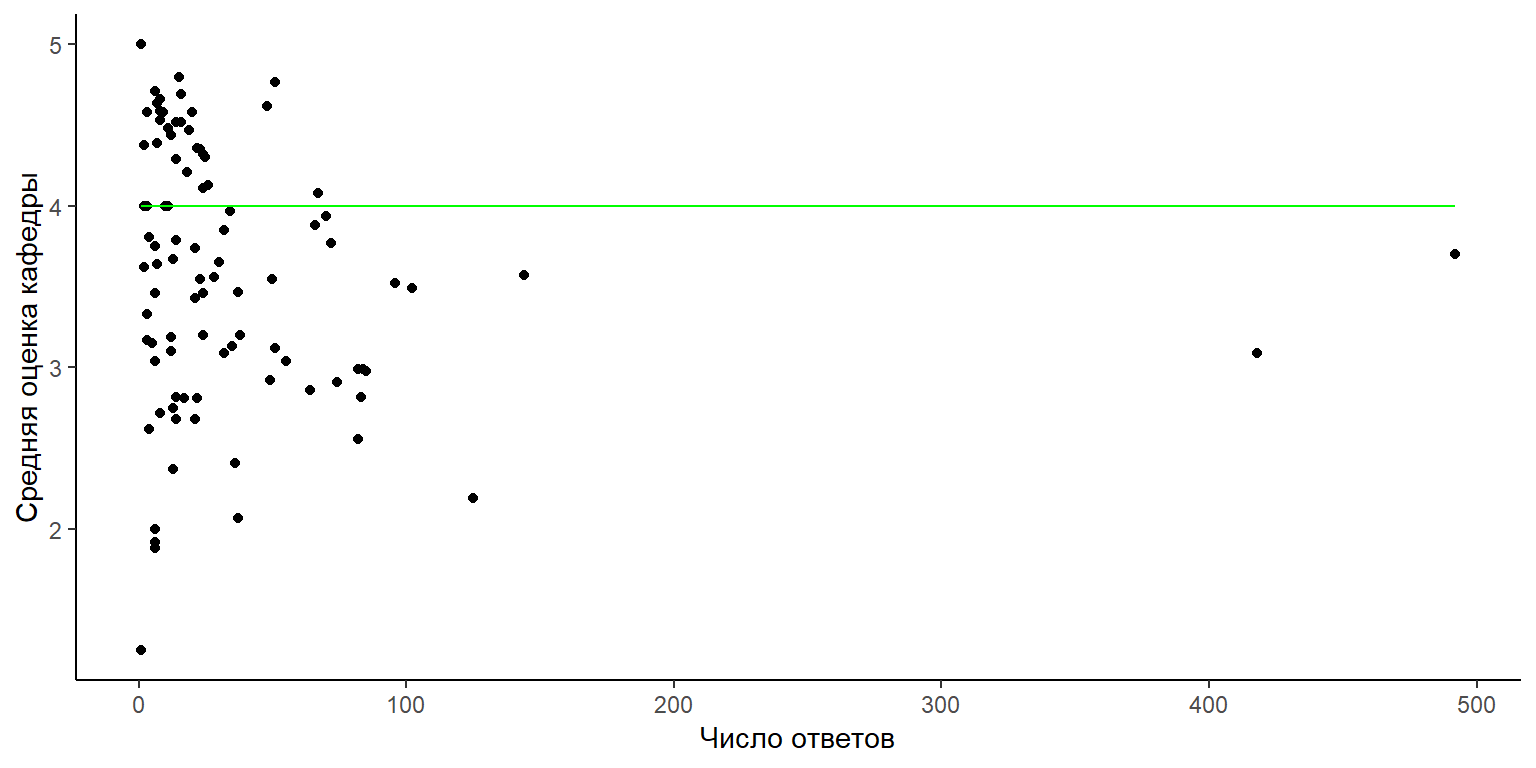
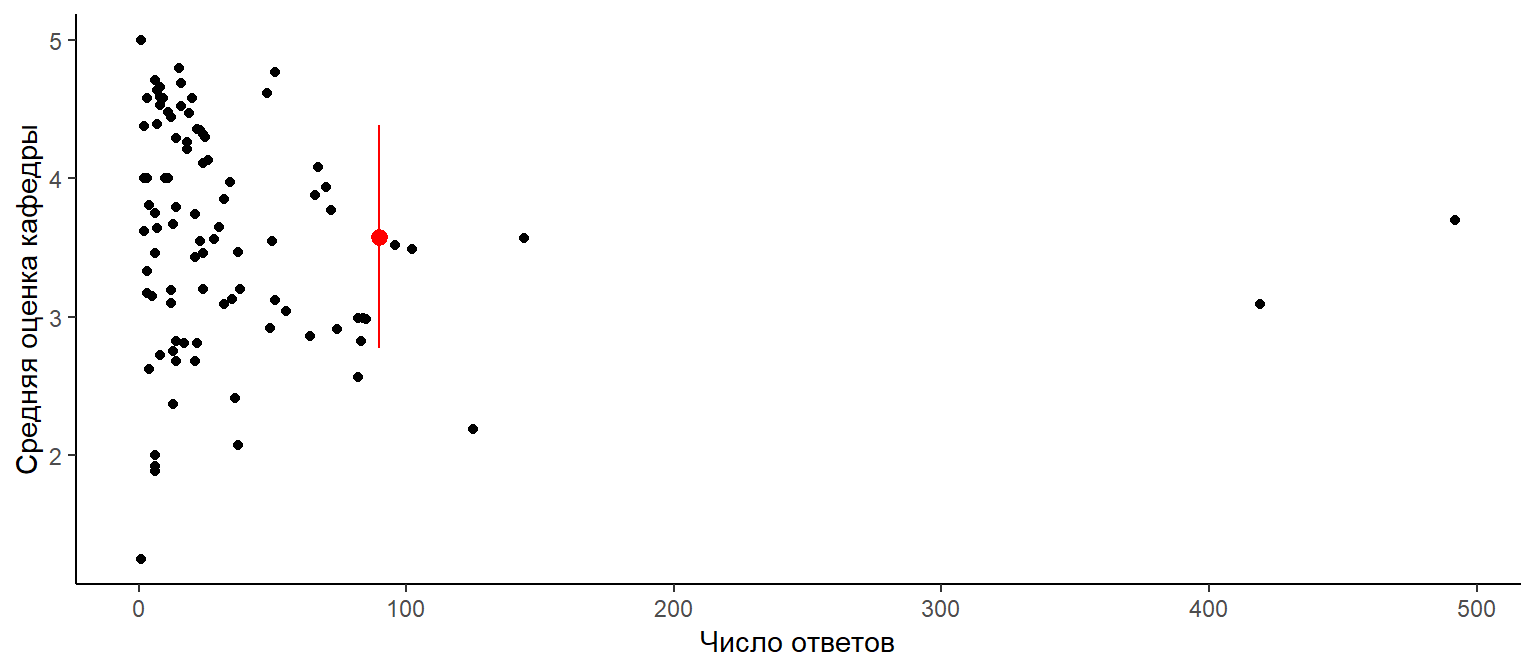
Add files via upload

diff --git a/index.html b/index.html
@@ -13,12 +13,16 @@
 
 # Рейтинг кафедр 
 
-#### Центр изучения общественного мнения РНИМУ им. Н.И. Пирогова
+`Центр изучения общественного мнения`  
+`РНИМУ им. Н.И. Пирогова`
 
 
 
-&lt;/br&gt;&lt;/br&gt;&lt;/br&gt;&lt;/br&gt;&lt;/br&gt;
+&lt;/br&gt;&lt;/br&gt;&lt;/br&gt;&lt;/br&gt;
+![](rnrmu.png) 
+![](midlogo.png)
 ![](logo.png)
+
 
 ---
 
@@ -31,7 +35,7 @@
 
 ## Статистика опроса
 
-- Число ответов: 3588
+- Число ответов: 3595
 
 - Число кафедр: 96
 
@@ -81,12 +85,12 @@
   &lt;tr&gt;
    &lt;td style="text-align:left;width: 2em; border-right:1.5em solid white;"&gt; 2 &lt;/td&gt;
    &lt;td style="text-align:left;width: 24em; "&gt; ЛФ: анатомии &lt;/td&gt;
-   &lt;td style="text-align:right;width: 9em; "&gt; &lt;span style="     color: #F7BD4A;"&gt;3.72&lt;/span&gt; &lt;/td&gt;
+   &lt;td style="text-align:right;width: 9em; "&gt; &lt;span style="     color: #F7BD4A;"&gt;3.71&lt;/span&gt; &lt;/td&gt;
    &lt;td style="text-align:right;width: 9em; "&gt; &lt;span style="     color: #F7BD4A;"&gt;3.15&lt;/span&gt; &lt;/td&gt;
-   &lt;td style="text-align:right;width: 9em; "&gt; &lt;span style="     color: red;"&gt;2.81&lt;/span&gt; &lt;/td&gt;
+   &lt;td style="text-align:right;width: 9em; "&gt; &lt;span style="     color: red;"&gt;2.8&lt;/span&gt; &lt;/td&gt;
    &lt;td style="text-align:right;width: 9em; "&gt; &lt;span style="     color: red;"&gt;2.7&lt;/span&gt; &lt;/td&gt;
    &lt;td style="text-align:right;width: 9em; border-left:1.5em solid white;"&gt; &lt;span style="display: inline-block; direction: rtl; border-radius: 4px; padding-right: 2px; background-color: #F7BD4A; width: 83.51%"&gt;3.09&lt;/span&gt; &lt;/td&gt;
-   &lt;td style="text-align:right;width: 9em; color: white;border-left:1.5em solid white;font-weight: bold;background-color: #F3F5F6;"&gt; &lt;span style="display: inline-block; direction: rtl; border-radius: 4px; padding-right: 2px; background-color: grey; width: 84.96%"&gt;418&lt;/span&gt; &lt;/td&gt;
+   &lt;td style="text-align:right;width: 9em; color: white;border-left:1.5em solid white;font-weight: bold;background-color: #F3F5F6;"&gt; &lt;span style="display: inline-block; direction: rtl; border-radius: 4px; padding-right: 2px; background-color: grey; width: 85.16%"&gt;419&lt;/span&gt; &lt;/td&gt;
   &lt;/tr&gt;
   &lt;tr&gt;
    &lt;td style="text-align:left;width: 2em; border-right:1.5em solid white;"&gt; 3 &lt;/td&gt;
@@ -544,16 +548,19 @@
 
 ## Студенты проходят анкету, в основном, когда что-то идёт не так?
 
-С увеличением количества ответов по кафедрам, увеличивается разброс их средних оценок
-&lt;img src="Presentation_files/figure-html/plot1-1.png" width="768" /&gt;
+**Нет.**
+
+Кафедры, по которым дано больше ответов, не имели низкий балл. Их оценка близка к средней по всем кафедрам
+  
+&lt;img src="index_files/figure-html/plot1-1.png" width="768" /&gt;
 
 ---
 
-## Визуализация отметок времени ответов
+## Визуализация времени ответов
 
-Основная масса ответов получена конце июня — начале июля
+Основная масса ответов получена в конце июня — начале июля
 
-&lt;img src="Presentation_files/figure-html/plot2-1.png" width="1056" /&gt;
+&lt;img src="index_files/figure-html/plot2-1.png" width="1056" /&gt;
     </textarea>
 <script src="https://remarkjs.com/downloads/remark-latest.min.js"></script>
 <script>var slideshow = remark.create({
